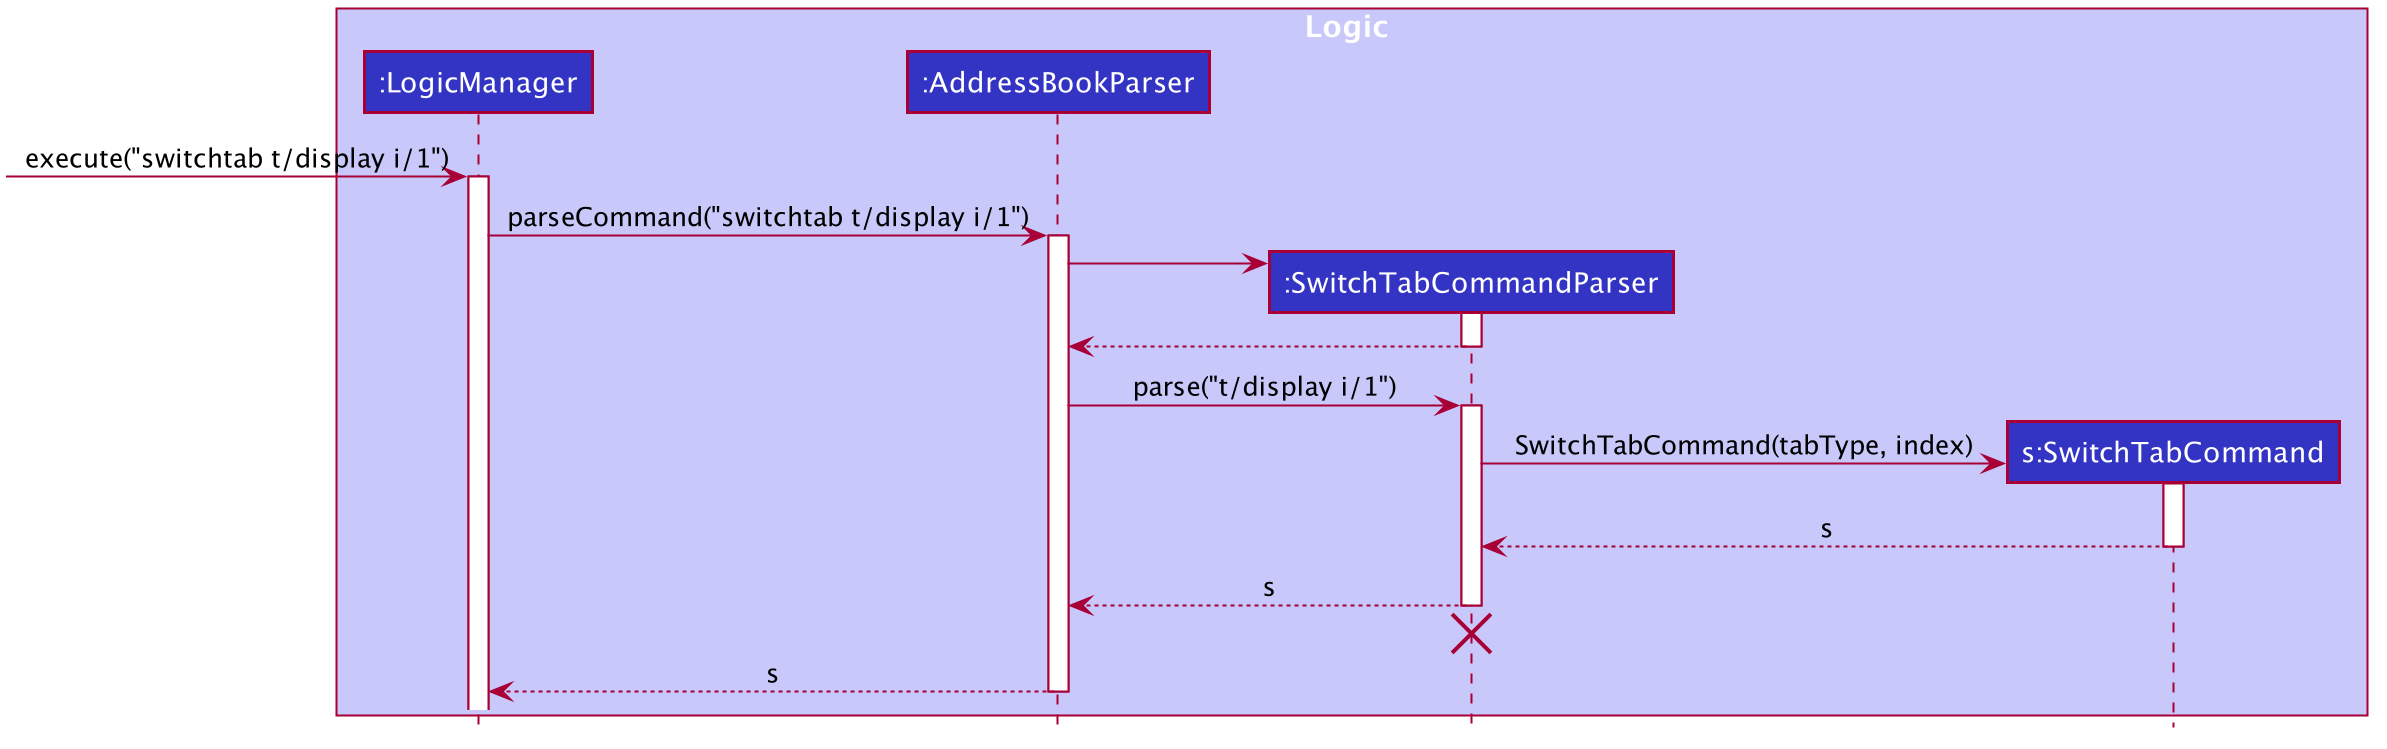
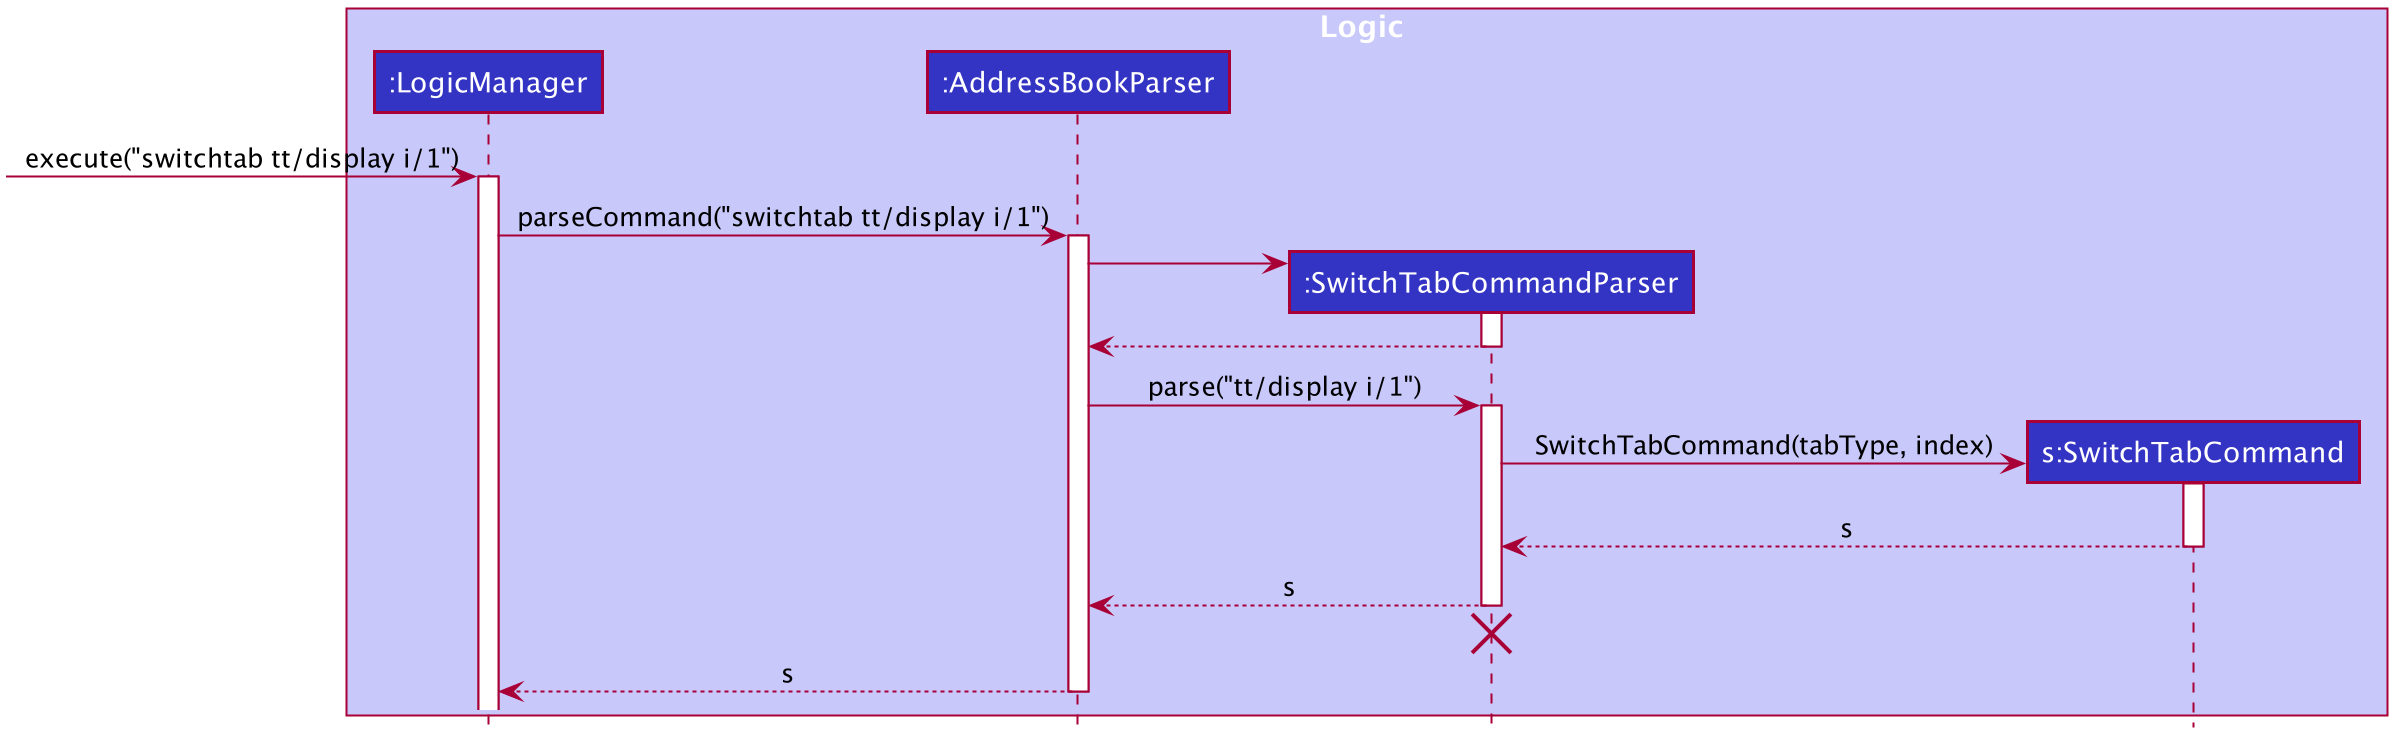
Update tab type prefix from t to tt

diff --git a/src/main/java/seedu/algobase/logic/parser/CliSyntax.java b/src/main/java/seedu/algobase/logic/parser/CliSyntax.java
@@ -31,7 +31,7 @@ public class CliSyntax {
     public static final Prefix PREFIX_FORMAT = new Prefix("format/");
     public static final Prefix PREFIX_PATH = new Prefix("path/");
     /* UI */
-    public static final Prefix PREFIX_TAB_TYPE = new Prefix("t/");
+    public static final Prefix PREFIX_TAB_TYPE = new Prefix("tt/");
     public static final Prefix PREFIX_TAB_INDEX = new Prefix("i/");
     public static final Prefix PREFIX_MODEL_TYPE = new Prefix("m/");
     public static final Prefix PREFIX_MODEL_INDEX = new Prefix("i/");
